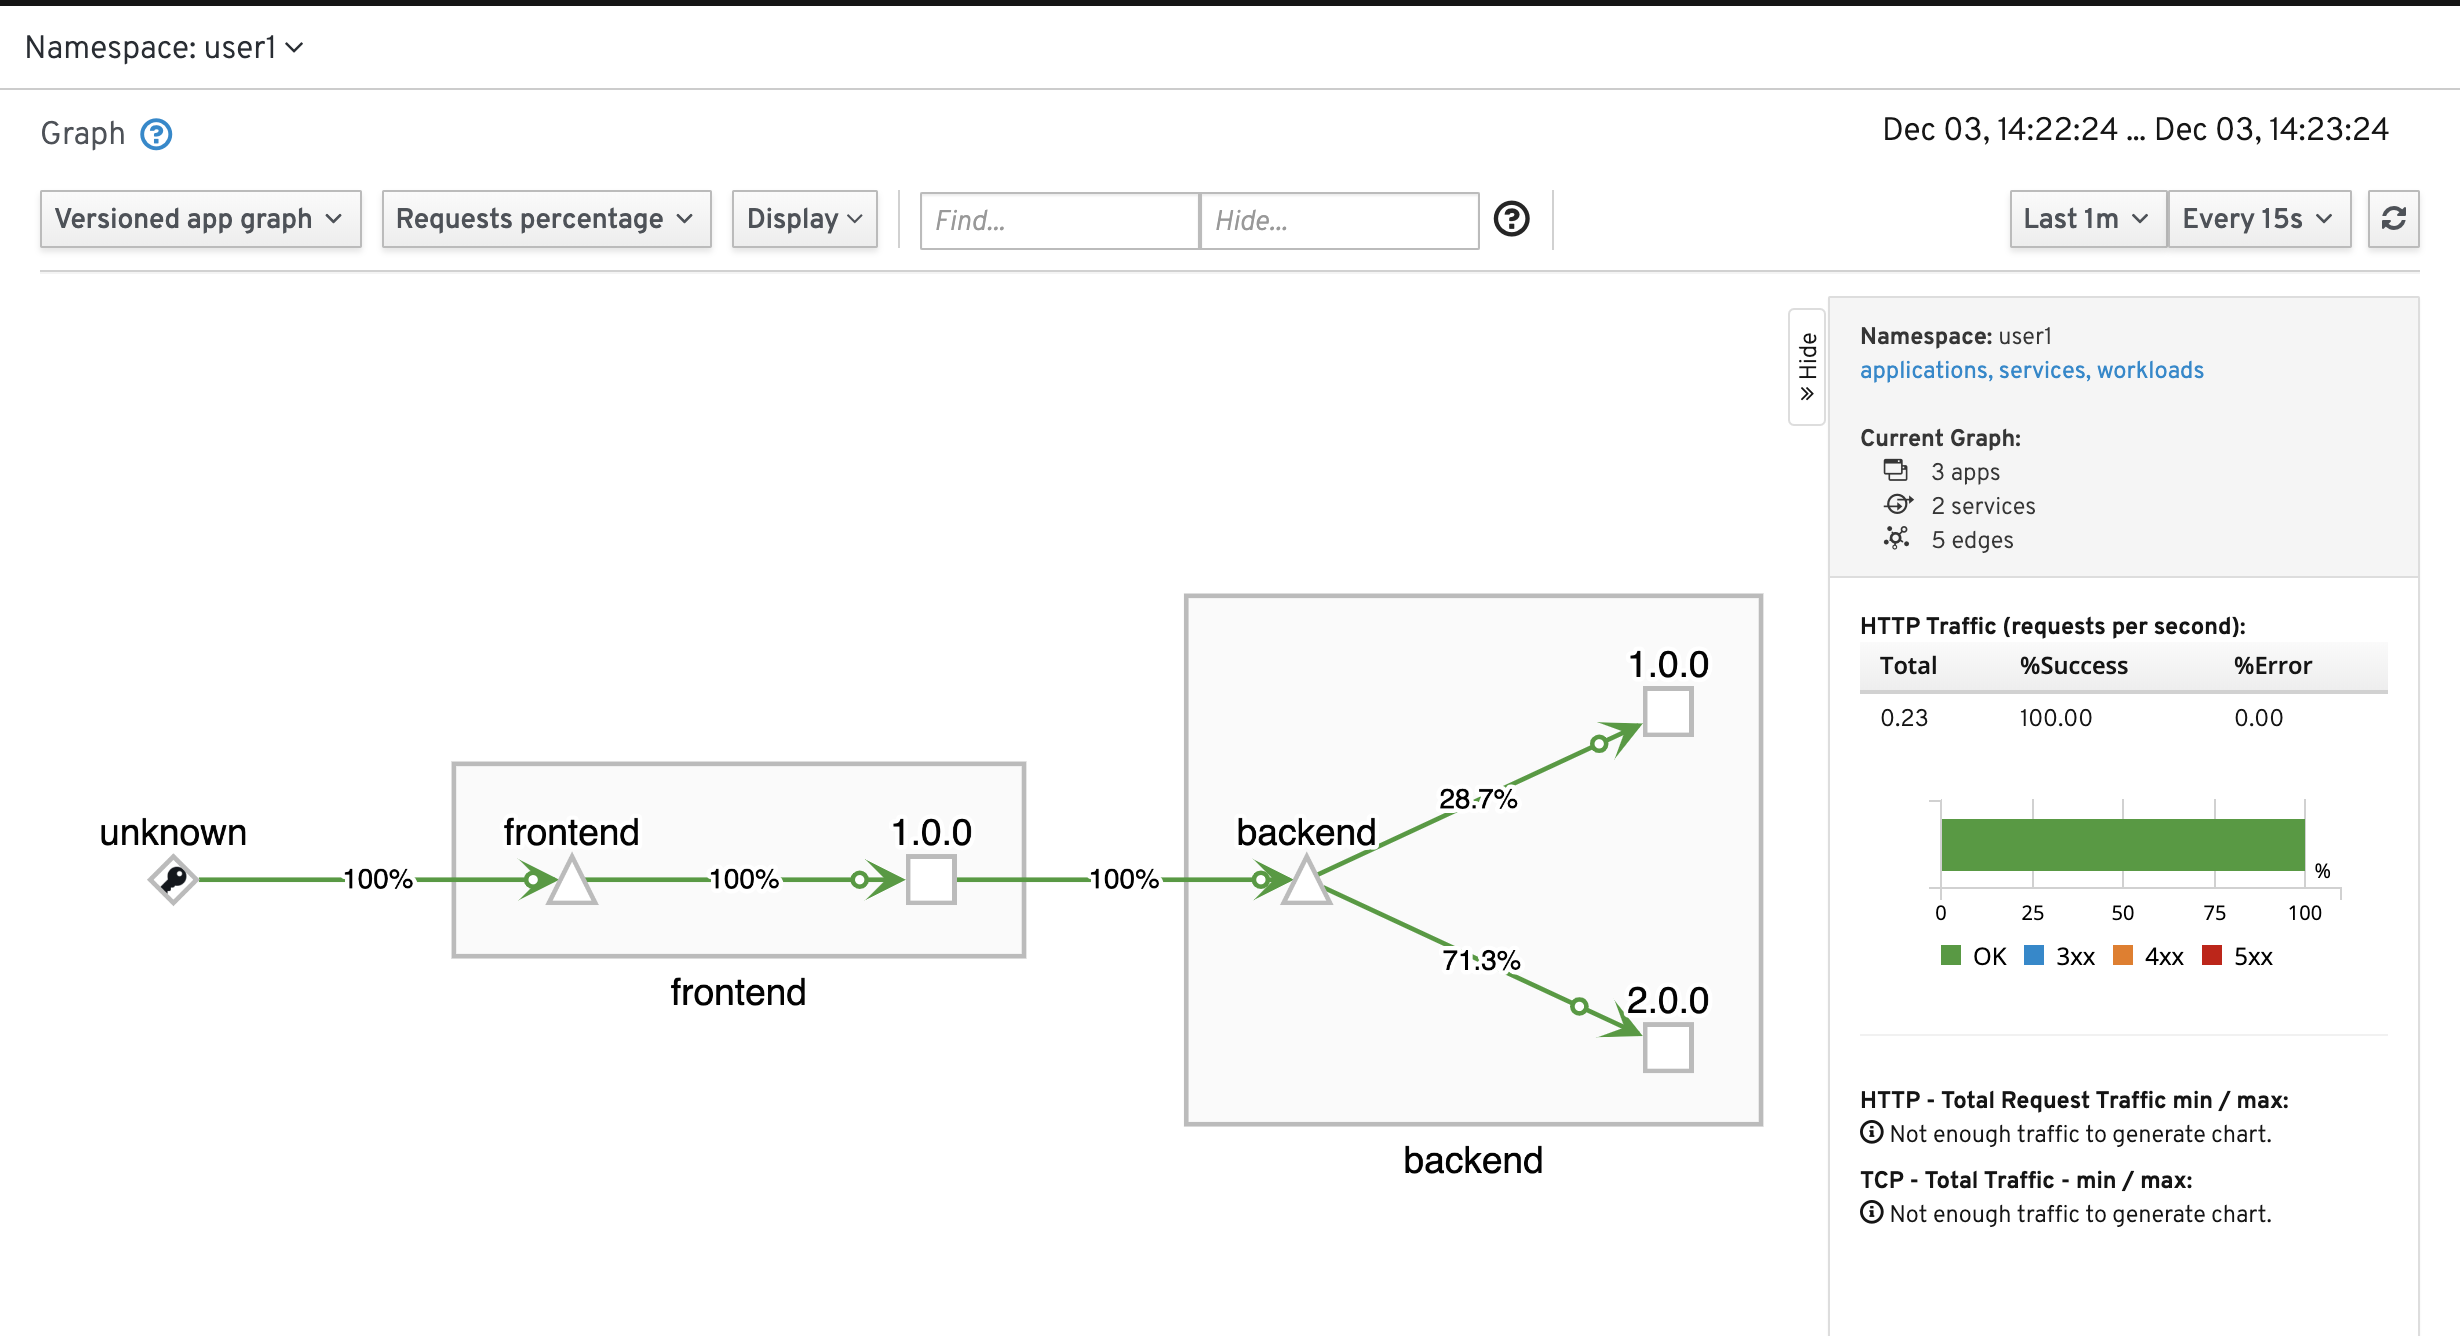
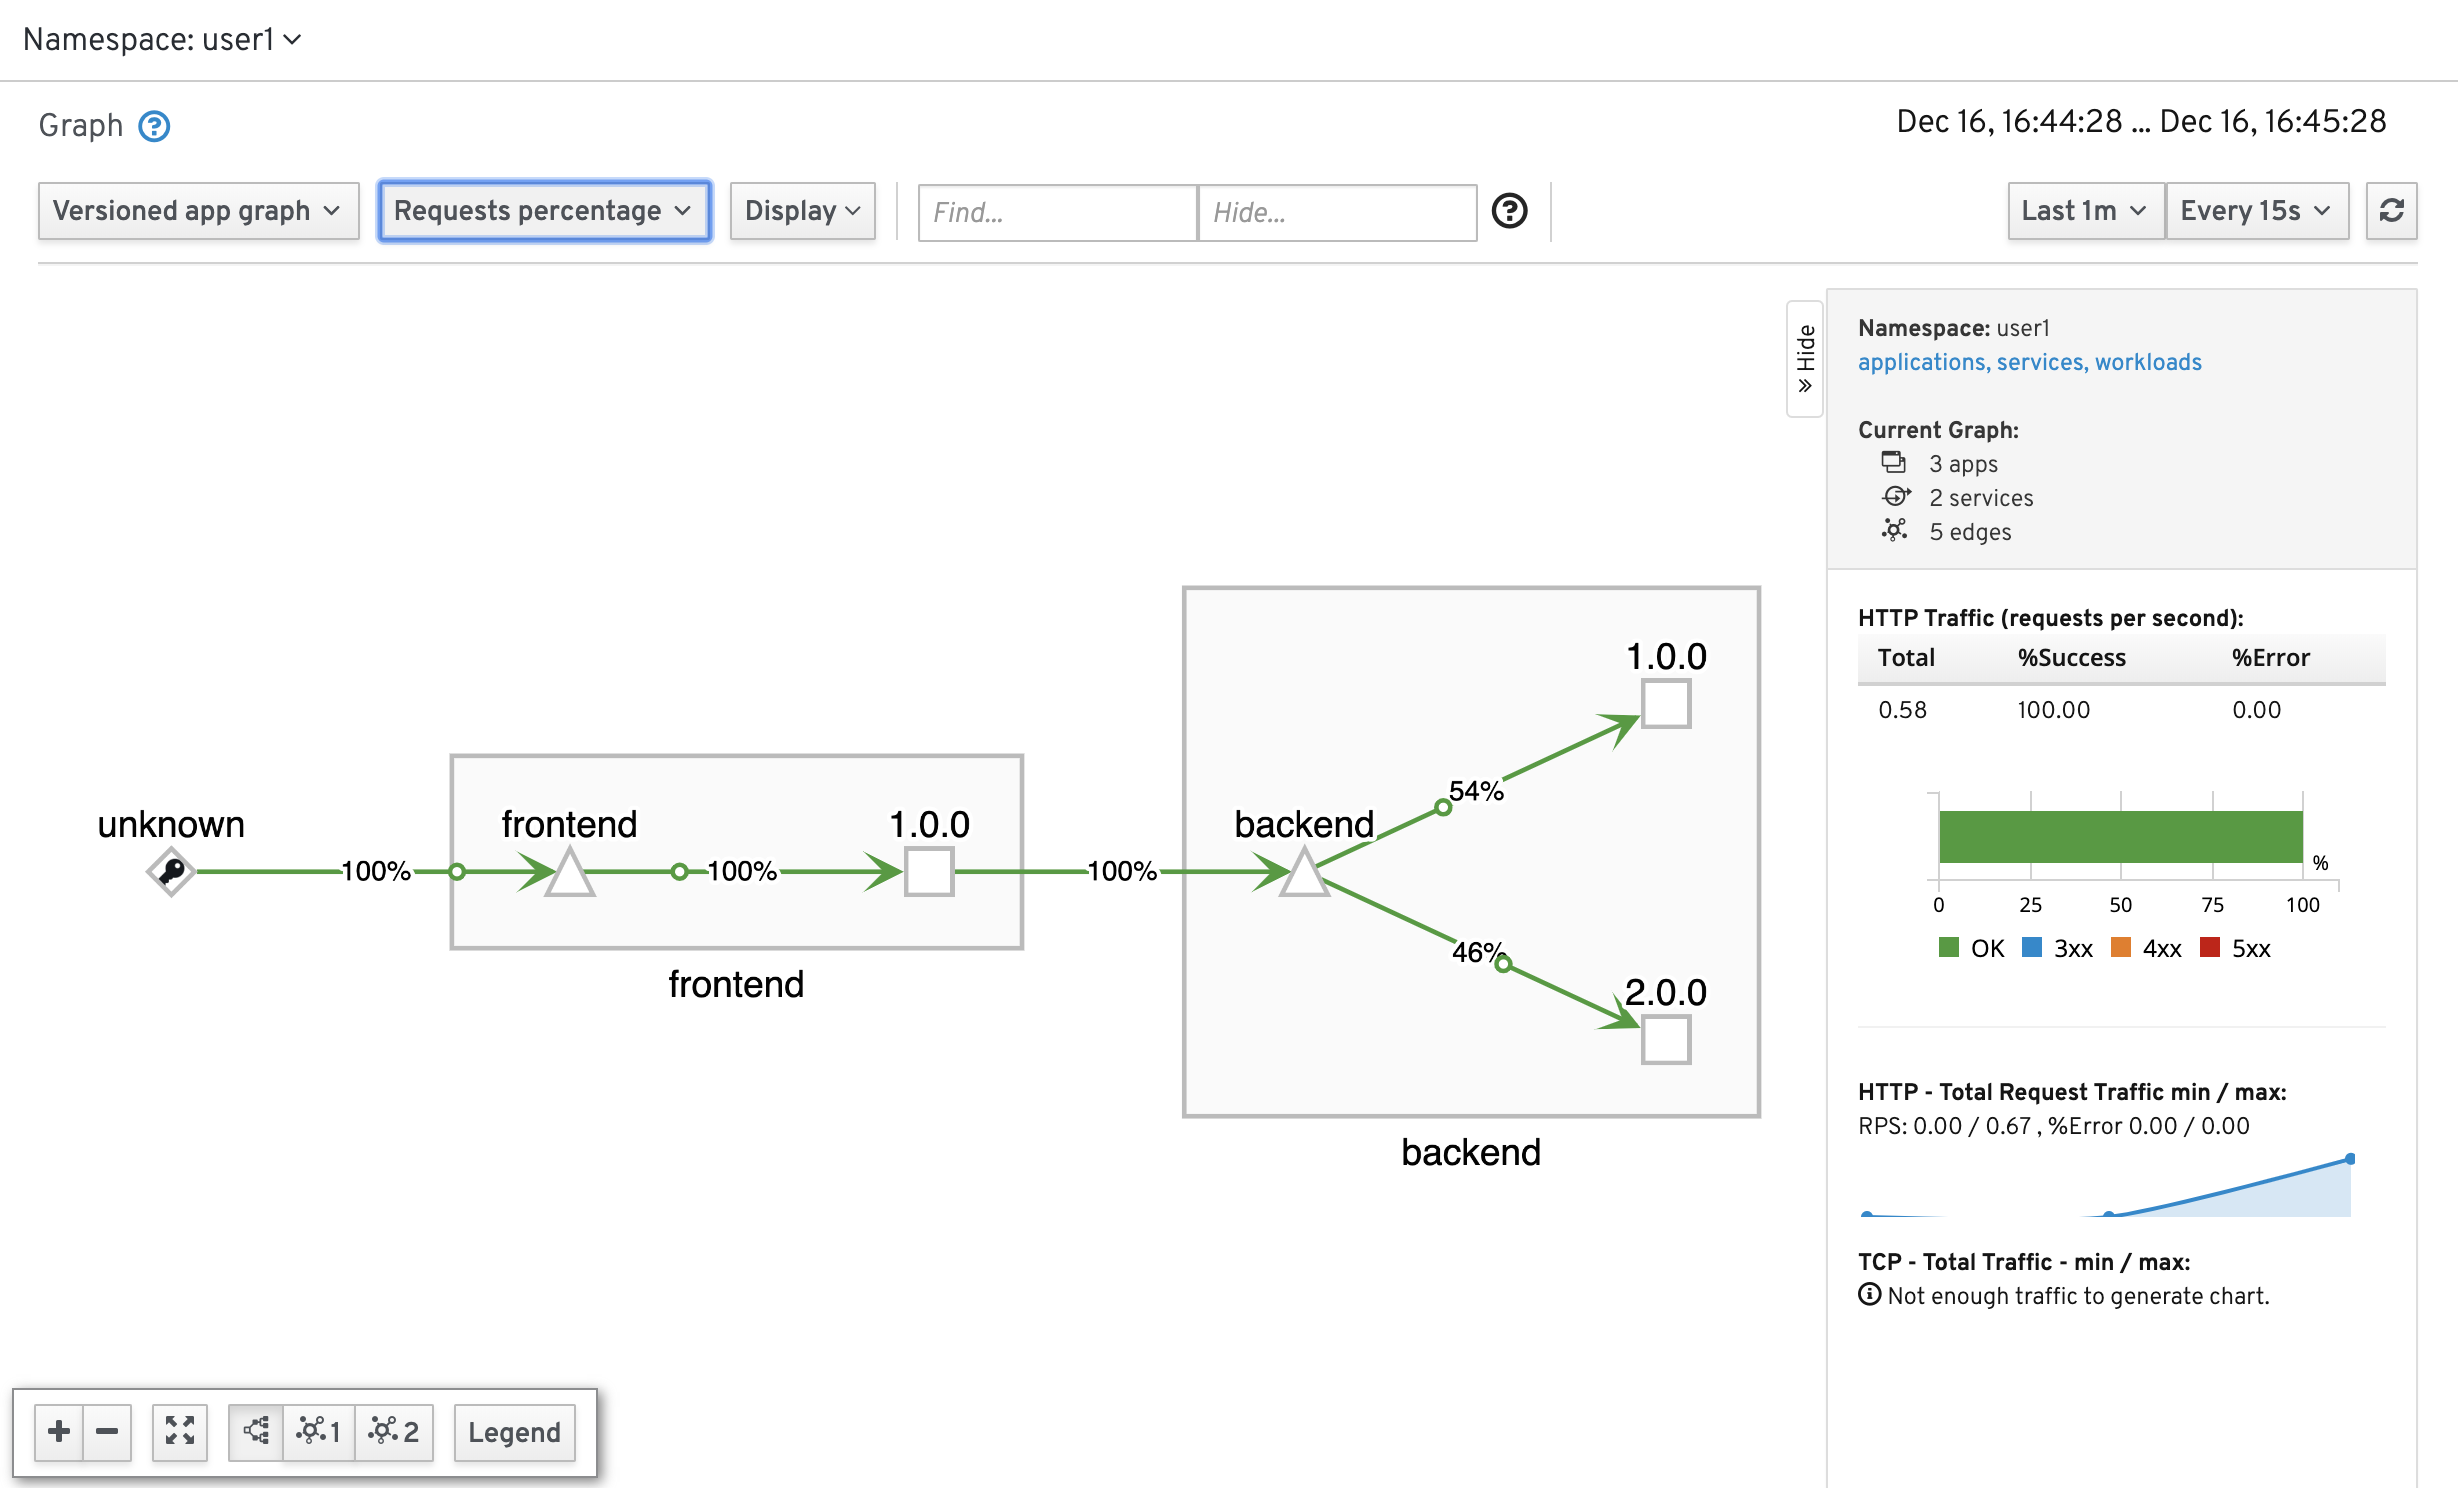
V1

diff --git a/labs/03-dynamic-routing.md b/labs/03-dynamic-routing.md
@@ -103,57 +103,7 @@ Version 2.0.0: 7
 ========================================================
 ```
 You can also check this splitting traffic with Kiali console.
-... kiali screen ...
-
-
-<!-- ## Traffic splitting by HTTP header
-### Virtual Service
-Review the following Istio's  virtual service configuration file (...) to route 80% of traffic to version 1.0.0 and 20% of traffic to version 2.0.0
-```
-apiVersion: networking.istio.io/v1alpha3
-kind: VirtualService
-metadata:
-  name: backend-virtual-service
-spec:
-  hosts:
-  - backend
-  http:
-  - match:
-    - headers:
-        baggage-user-agent:
-          regex: .*Firefox.*
-    route:
-    - destination:
-        host: backend
-        subset: v1
-  - route:
-    - destination:
-        host: backend
-        subset: v2
-```
-
-### Apply Istio Policy for A/B deployment
-Run oc apply command to apply Istio policy.
-
-```
-oc apply -f istio-files/a-b-destination-rules.yml -n $USERID
-oc apply -f istio-files/virtual-service-firefox-backend-v1.yml -n $USERID
-
-```
-
-Sample outout
-```
-destinationrule.networking.istio.io/backend created
-virtualservice.networking.istio.io/backend-virtual-service created
-
-```
-### Test
-Test cURL with User-Agent is set to Firefox
-```
-curl -H "User-Agent:Firefox" $FRONTEND_URL
-
-``` -->
-
+![Kiali Graph 80-20](../images/kiali-graph-80-20.png)
 
 ## Timeout
 Let's say that 6 sec respond time of backend v2 is too long. If frontend wait more than 3 sec, frontend will receive HTTP code 504
@@ -206,10 +156,25 @@ Result
 Frontend version: 1.0.0 => [Backend: http://backend:8080, Response: 504, Body: upstream request timeout]
 ```
 
-Run [run-50.sh](../scripts/run-50.sh) and check Kiali console
-.... Kiali ...
+Run [run-50.shj](../scripts/run-50.sh)
+```
+scripts/run-50.sh
+```
 
-### Remove Istio Policy
+Sample output
+```
+Backend:, Response Code: 504, Host:, Elapsed Time:3.878352 sec
+Backend:1.0.0, Response Code: 200, Host:backend-v1-84b98cf86c-hjf65, Elapsed Time:1.558571 sec
+Backend:, Response Code: 504, Host:, Elapsed Time:3.556231 sec
+Backend:1.0.0, Response Code: 200, Host:backend-v1-84b98cf86c-hjf65, Elapsed Time:1.681229 sec
+Backend:1.0.0, Response Code: 200, Host:backend-v1-84b98cf86c-hjf65, Elapsed Time:1.573688 sec
+Backend:, Response Code: 504, Host:, Elapsed Time:4.295051 sec
+```
+
+Check Graph in Kiali Console with Response time.
+![](../images/kiali-graph-timeout.png)
+
+## Remove Istio Policy
 Run oc delete command to remove Istio policy.
 
 ```
@@ -217,3 +182,53 @@ oc delete -f istio-files/virtual-service-backend-v1-v2-80-20.yml -n $USERID
 oc delete -f istio-files/destination-rule-backend-v1-v2.yml -n $USERID
 
 ```
+
+<!-- ## Traffic splitting by HTTP header
+### Virtual Service
+Review the following Istio's  virtual service configuration file (...) to route 80% of traffic to version 1.0.0 and 20% of traffic to version 2.0.0
+```
+apiVersion: networking.istio.io/v1alpha3
+kind: VirtualService
+metadata:
+  name: backend-virtual-service
+spec:
+  hosts:
+  - backend
+  http:
+  - match:
+    - headers:
+        baggage-user-agent:
+          regex: .*Firefox.*
+    route:
+    - destination:
+        host: backend
+        subset: v1
+  - route:
+    - destination:
+        host: backend
+        subset: v2
+```
+
+### Apply Istio Policy for A/B deployment
+Run oc apply command to apply Istio policy.
+
+```
+oc apply -f istio-files/a-b-destination-rules.yml -n $USERID
+oc apply -f istio-files/virtual-service-firefox-backend-v1.yml -n $USERID
+
+```
+
+Sample outout
+```
+destinationrule.networking.istio.io/backend created
+virtualservice.networking.istio.io/backend-virtual-service created
+
+```
+### Test
+Test cURL with User-Agent is set to Firefox
+```
+curl -H "User-Agent:Firefox" $FRONTEND_URL
+
+``` -->
+
+<!-- export GATEWAY_URL=$(oc -n $USERID-istio-system get route istio-ingressgateway -o jsonpath='{.spec.host}') -->

diff --git a/labs/04-ingress.md b/labs/04-ingress.md
@@ -1,0 +1,89 @@
+# Istio Gateway Lab
+
+Configure service mesh gateway to control traffic that entering mesh.
+
+
+## Gateway
+Review the following Istio's Gateway rule configuration file [ingress-gateway.yml](../istio-files/ingress-gateway.yml)  to create Istio Gateway.
+
+Run oc apply command to create Istio Gateway.
+```
+oc apply -f istio-files/ingress-gateway.yml -n $USERID
+```
+
+Sample outout
+```
+gateway.networking.istio.io/ingress-gateway created
+```
+
+## Routing by incoming HTTP header
+### Destination Rule
+Review the following Istio's destination rule configuration file [destination-rule-frontend-v1-v2.yml](../istio-files/destination-rule-frontend-v1-v2.yml)  to define subset called v1 and v2 by matching label "app" and "version"
+
+Run oc apply command to create Istio Gateway.
+```
+oc apply -f istio-files/destination-rule-frontend-v1-v2.yml -n $USERID
+```
+
+Sample outout
+```
+destinationrule.networking.istio.io/frontend created
+```
+
+### Virtual Service
+Review the following Istio's  virtual service configuration file [virtual-service-frontend-header-foo-bar-to-v1.yml](../istio-files/virtual-service-frontend-header-foo-bar-to-v1) to routing request to v1 if request container header name foo with value bar
+
+```
+...
+- match:
+    - headers:
+        foo:
+          exact: bar
+    route:
+    - destination:
+        host: frontend
+        subset: v1
+...
+```
+
+Run oc apply command to apply Istio virtual service policy.
+```
+oc apply -f istio-files/virtual-service-frontend-header-foo-bar-to-v1.yml -n $USERID
+```
+
+Sample output
+```
+virtualservice.networking.istio.io/frontend created
+```
+
+## Test
+Get URL of Istio Gateway by using following command
+```
+export GATEWAY_URL=$(oc -n $USERID-istio-system get route istio-ingressgateway -o jsonpath='{.spec.host}')
+
+```
+Verify that environment variable GATEWAY is set correctly.
+```
+echo $GATEWAY
+```
+Sample output
+```
+istio-ingressgateway-user1-istio-system.apps.cluster-bkk77-eeb3.bkk77-eeb3.example.opentlc.com
+```
+
+Test with cURL by setting header name foo with value bar. Response will always from Frontend v1
+```
+curl -v -H foo:bar $GATEWAY_URL
+```
+
+Test again witout specified parameter -H. Response will always from Frontend v2
+
+## Remove Istio Policy
+Run oc delete command to remove Istio policy.
+
+```
+oc delete -f istio-files/ingress-gateway.yml -n $USERID
+oc delete -f istio-files/destination-rule-frontend-v1-v2.yml -n $USERID
+oc delete -f istio-files/virtual-service-frontend-header-foo-bar-to-v1.yml -n $USERID
+
+```

diff --git a/labs/02-observability.md b/labs/02-observability.md
@@ -15,7 +15,7 @@ Kiali runs as a service together with Istio, and does not require any changes to
 Get the URL of the Kiali web console and set as an environment variable:
 
 ```
-export KIALI_URL=https://$(oc get route kiali -n istio-system -o template --template='{{.spec.host}}')
+export KIALI_URL=https://$(oc get route kiali -n $USERID-istio-system -o template --template='{{.spec.host}}')
 # Display the KIALI_URL URL:
 echo $KIALI_URL
 ```
@@ -23,10 +23,10 @@ echo $KIALI_URL
 Kiali Login screen
 ![Kiali Login](../images/kiali-login.png)
 
-## Generate Sample Data
+## Using Kiali
 
 
-## View Service Graph
+### View Service Graph
 
 Move back to the Kiali web console. In the main console select your project. Then in the left-hand panel, Click Graph.
 ![Kiali Main Screen](../images/kiali-main-screen.png)
@@ -47,7 +47,7 @@ Expect to see traffic animation on the graph based on traffic that is generated 
 
 Remark that on the right of the screen show the result of requests (OK, 3xx, 4xx, 5xx)
 
-# Explore Service Listing
+### Explore Service 
 In the left-hand panel, click Services.
 
 On the Services page you can view a listing of the services that are running in the cluster, and additional information about them such as health status.
@@ -56,12 +56,30 @@ On the Services page you can view a listing of the services that are running in 
 
 Remark: There is "Istio Config" in the left-hand panel. This can use for display and configure Istio policy. You can check this out in later labs
 
-# Distributed Tracing
+### Exploring Workload
+In the left-hand panel, click Workloads. Then select workload you want to check for statistic. (eg: frontend)
+
+![Workload List](../images/workload-list.png)
+
+Default page show overview information of selected workload.
+
+![Workload Frontend](../images/workload-frontend-v1.png)
+
+View log of each Pod by select tab Logs
+
+![Workload Log](../images/workload-logs.png)
+
+View Inbound/Outbound metrics by select Inbound and Outbound tab.
+
+![Workload Inbound](../images/workload-inbound-metrics.png)
+
+
+## Distributed Tracing
 
 Jaeger implement OpenTracing for tracing microservices. Sampling rate and data store of Jaeger Get the URL of the Jaeger Web console and set as an environment variable:
 
 ```
-export JAEGER_URL=https://$(oc get route jaeger -n istio-system -o template --template='{{.spec.host}}')
+export JAEGER_URL=https://$(oc get route jaeger -n $USERID-istio-system -o template --template='{{.spec.host}}')
 # Display the JAEGER_URL URL:
 echo $JAEGER_URL
 ```

diff --git a/labs/01-microservice-deployment.md b/labs/01-microservice-deployment.md
@@ -2,37 +2,10 @@
 Deploy microservices applications to OpenShift Container Platform 
 Observe automatic injection of Service Mesh sidecar into each microservice
 
-## Setup
 There are two microservices in this lab that you will deploy to OpenShift. In a later lab of this course, you will manage the interactions between these microservices using Red Hat OpenShift Service Mesh.
 
-Here is the application architecture of the microservices:
+<!-- ## Setup
 
-image here!
-
-Setup environment variables
-```
-export USERID=<your user ID>
-export PROJECT=$USERID
-
-```
-
-Login to OpenShift with oc command by
-```
-oc login --username=$USERID --server=<URL to OpenShift>
-
-```
-
-Clone project to your working directory
-```
-git clone <My URL>
-
-```
-
-Create project for frontend and backend application
-```
-oc new-project $USERID
-
-```
 
 Istio need priviledged acess to run 
 *** internal use: need to add RBAC for userXX to have rights to run following command
@@ -40,12 +13,12 @@ Istio need priviledged acess to run
 oc adm policy add-scc-to-user anyuid -z default -n $USERID
 oc adm policy add-scc-to-user privileged  -z default -n $USERID
 
-```
+``` -->
 
 ## Deploy Frontend and Backend app
 You start by deploying the catalog service to RHOCP. The sidecar proxy is automatically injected by annotated deployment with 
 
-*** Internal: need to add project to Service Mesh Member Roll first
+
 ```
 sidecar.istio.io/inject: "true"
 
@@ -116,6 +89,8 @@ route.route.openshift.io/frontend created
 
 Monitor the deployment of the pods:
 ```
+watch oc get pods -n $USERID
+or
 oc get pods -w -n $USERID
 
 ```
@@ -158,4 +133,10 @@ You also can use following cURL for check response time
 ```
 curl $FRONTEND_URL -s -w "\nElapsed Time:%{time_total}"
 
+```
+
+Sample output
+```
+Frontend version: 1.0.0 => [Backend: http://backend:8080, Response: 200, Body: Backend version:2.0.0,Response:200,Host:backend-v2-74f77cd869-jkb52, Message: Hello World!!]
+Elapsed Time:6.132507
 ```

diff --git a/README.md b/README.md
@@ -7,11 +7,11 @@ Table of Content
  * [Microservices Deployment](labs/01-microservice-deployment.md)
  * [Observability with Kiali and Jaeger](labs/02-observability.md)
  * [Dynamic Routing](labs/03-dynamic-routing.md)
-
+ * [Istio Gateway](labs/04-ingress.md)
 
 ## Introduction
 
-WIP
+WIP - Link to PPT PDF
 
 
 
